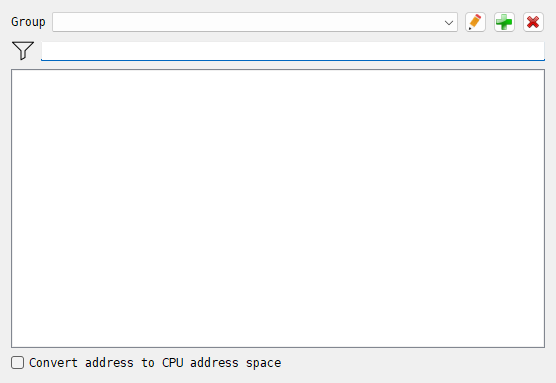
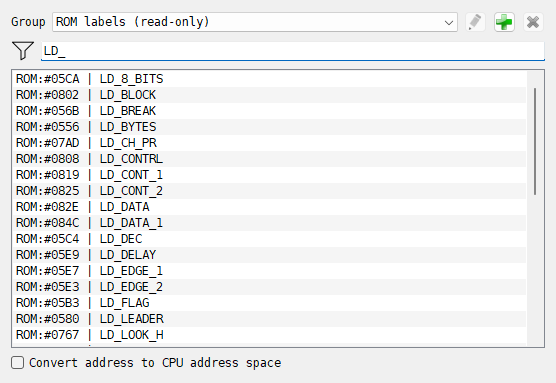
manual: ROM labels - their section under Labels and comments, the ROM set in the Labels List, the switch on the Debugger page; a local label's paler global part; the Labels List shot shows the ROM set, the Debugger page shot the switch

diff --git a/docs/manual/debugger-code.md b/docs/manual/debugger-code.md
@@ -40,7 +40,10 @@ named place is shown as the name plus the offset: `LD A,(table + 2)`.
 
 Some rows are not instructions:
 
-- a **label** row, in bold on a tinted background, names the address of the row under it;
+- a **label** row, in bold on a tinted background, names the address of the row under it.
+  In a local label such as `draw.loop`, under the label `draw`, the `draw` part is paler.
+  It is paler in an instruction too, when the instruction is in `draw`'s block - after
+  `draw` and before the next label that is not a local one;
 - a **comment** row, in gray, starts with `;`;
 - an `EQU` row follows an instruction when a label points inside it: `NAME` with
   `EQU $-2` says the label is two bytes before the next instruction. Programs that change
@@ -317,6 +320,23 @@ back to the same place. Only Xpeccy+ reads such lines.
 Labels typed in the listing go into the set in effect, or into a new set called `noname`
 when there is none.
 
+### ROM labels
+
+```{index} ROM labels, label; ROM
+```
+
+Known ROMs come with labels of their own, with no file loaded: `LD_BYTES` at 0556 of the
+48K BASIC, `DOS_OPEN` in the +3DOS, `TRDOS_FUNCTION` at 3D13 of TR-DOS. The 48K BASIC
+names are also in the 48 BASIC of the 128K, +2, +3 and the clones; a routine a clone
+changed has no name there. A ROM is known by its contents, so a ROM file of yours with the
+same bytes has them too.
+
+They work as other labels do: in the listing, typed as an address, in breakpoints and
+conditions. A label of yours at the same address is shown instead: typing a name on a ROM
+label's row makes one. A ROM label cannot be removed, and **Save labels** does not save
+it. **ROM labels** on the **Debugger** page of **Options** switches them off. Where they
+come from, and their licenses, is in `config/labels/README.md` beside the program.
+
 ```{index} Auto-load labels, label; loading automatically
 ```
 
@@ -337,7 +357,9 @@ name from the same folder. These labels are in effect until the next file is ope
 opens the **Labels List**.
 
 - **Group** - the set of labels in effect. The buttons beside it: {icon}`edit` renames the
-  set, {icon}`add` adds a new empty set and {icon}`cancel` deletes the set.
+  set, {icon}`add` adds a new empty set and {icon}`cancel` deletes the set. The last line,
+  **ROM labels (read-only)**, lists the [ROM labels](#rom-labels): picking it leaves the
+  set in effect as it was.
 - The field under it filters the list: only labels that contain what you type are shown.
   The case of the letters matters.
 - The list shows each label's address and name. Double-click a label, or select it and

diff --git a/docs/manual/options-debugger.md b/docs/manual/options-debugger.md
@@ -52,4 +52,5 @@ Choosing another interface style on the **Appearance** page puts these colors ba
 style's own.
 
 **Misc** - **Auto-load labels**: opening an image also loads a `.labels` file of the same
-name, if there is one. See [Disasm panel](debugger-code.md).
+name, if there is one. See [Disasm panel](debugger-code.md). **ROM labels**: known ROMs
+name their routines in the listing. See [ROM labels](debugger-code.md#rom-labels).
